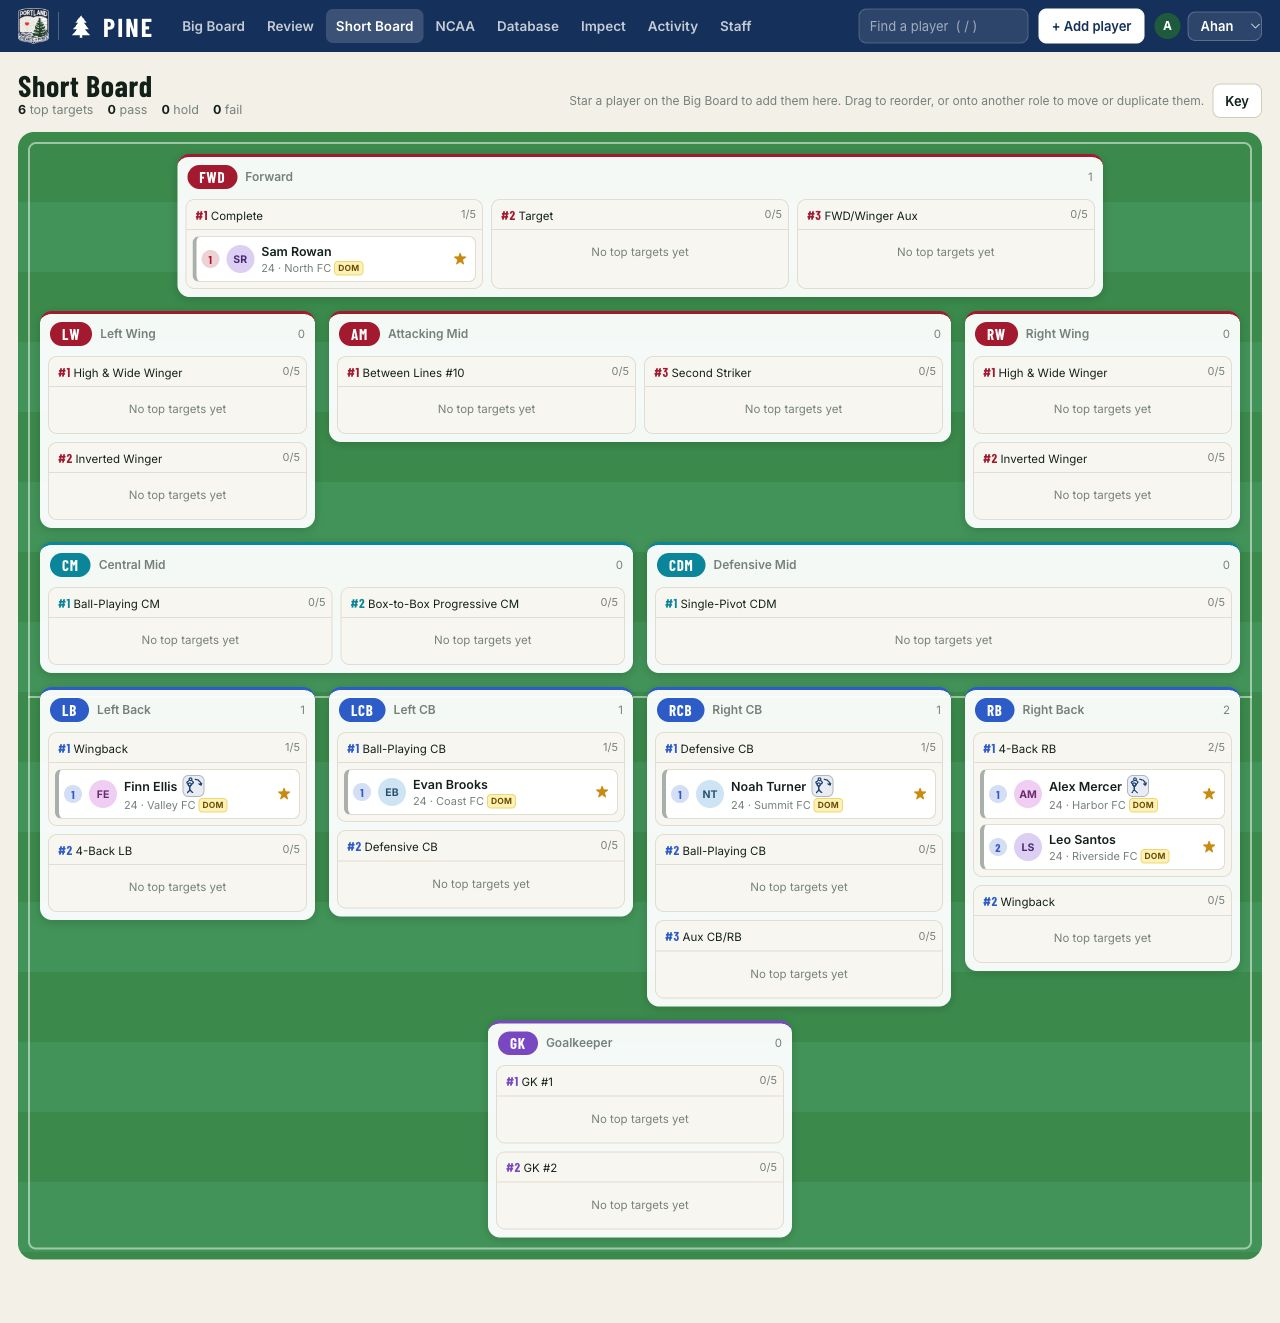
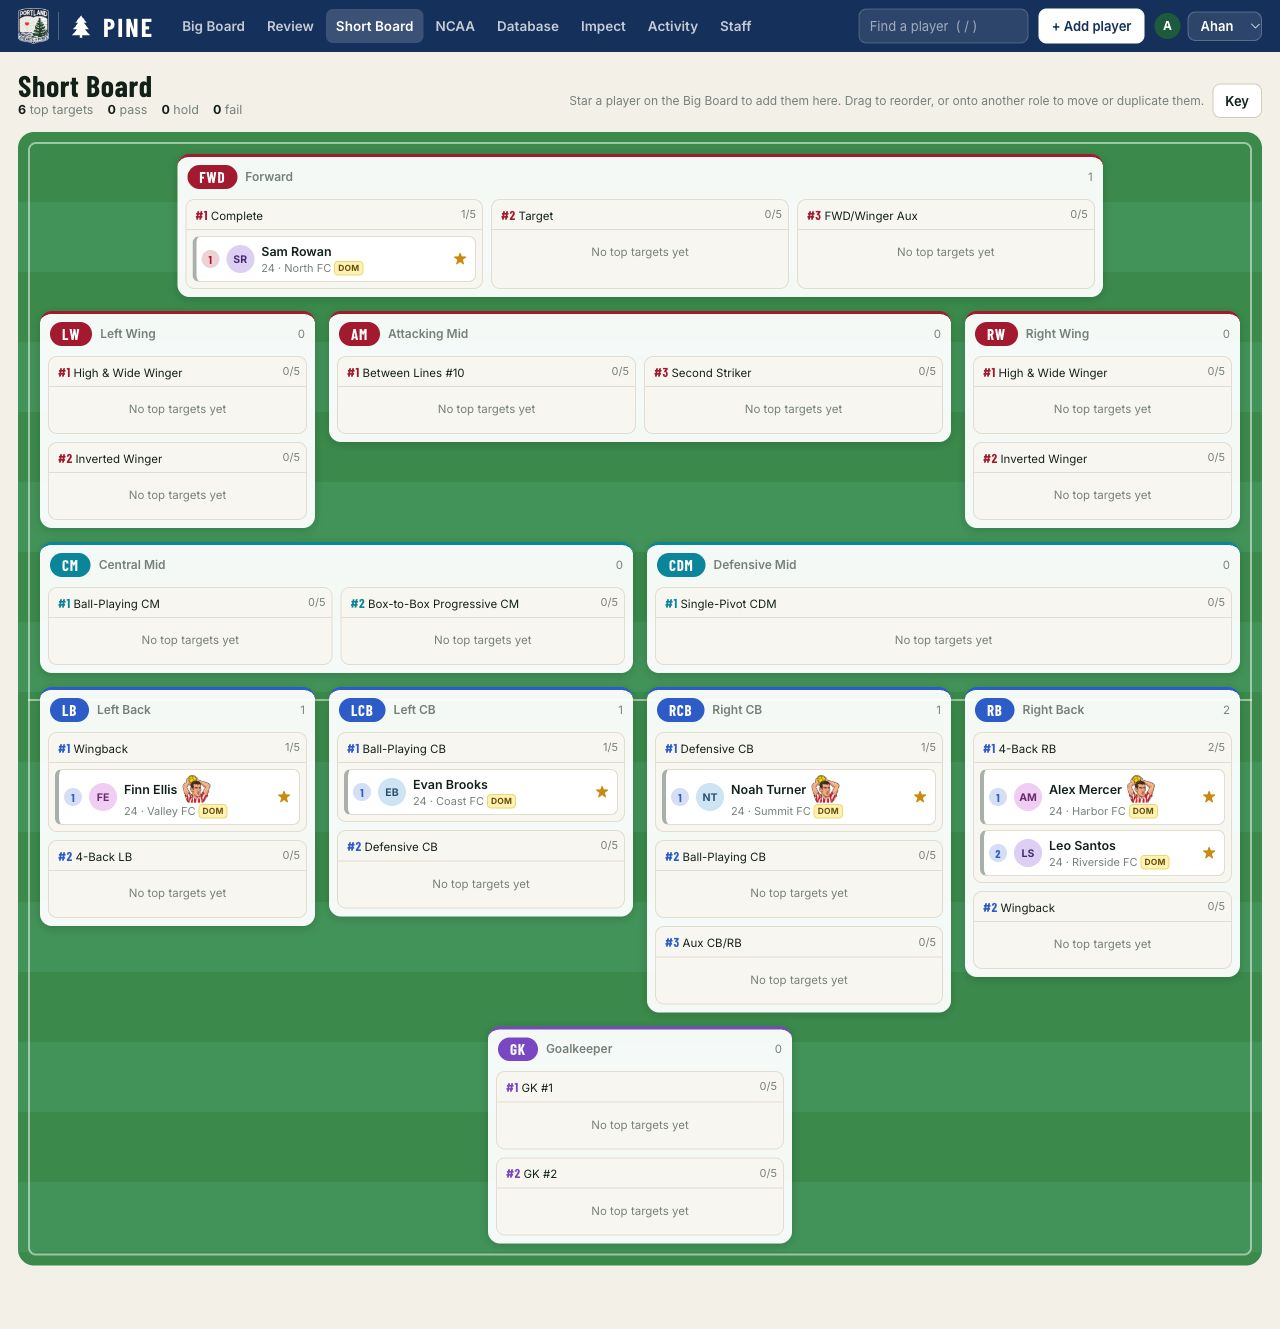
Use a cartoon Rory Delap for long-throw badges

diff --git a/public/app.js b/public/app.js
@@ -550,7 +550,7 @@ function newReportMark(p) {
   const who = mine ? "you" : S.config.staff.find((u) => u.id === r.by)?.name || "someone";
   return `<span class="newrpt ${mine ? "mine" : ""}" title="New report by ${esc(who)} · ${esc(relTime(r.at))}" aria-label="New report by ${esc(who)}">✎</span>`;
 }
-const longThrowBadge = (p) => p.has_long_throw ? `<span class="long-throw" role="img" aria-label="Long throw" title="Long throw"><svg viewBox="0 0 24 24" fill="none" stroke="currentColor" stroke-width="1.7" stroke-linecap="round" stroke-linejoin="round" aria-hidden="true"><circle cx="7" cy="10" r="2"/><circle cx="8" cy="3" r="1.7"/><path d="M7 12v5l-3 4m3-4 4 4M7 13 3 7l3-2m1 8 5-6-2-2m4-2c5 0 8 3 8 8m-3-2 3 2 1-3"/></svg></span>` : "";
+const longThrowBadge = (p) => p.has_long_throw ? `<span class="long-throw" role="img" aria-label="Long throw" title="Long throw · Rory Delap"><img src="/rory-delap-long-throw.png?v=1" alt="" width="56" height="56" aria-hidden="true"></span>` : "";
 const nameWithMark = (p, cls = "nm") => `<span class="name-line"><span class="${cls}">${esc(p.name)}</span>${longThrowBadge(p)}${signedBadge(p)}${newReportMark(p)}</span>`;
 // Picked for a USL League Two Top Prospects report: "L2 '26", or "L2 '25 '26" for both years.
 const L2_TIER = { First: "Best XI", Second: "Second XI", Third: "Third XI", Fourth: "Fourth XI", Fifth: "Fifth XI" };

diff --git a/public/styles.css b/public/styles.css
@@ -533,11 +533,9 @@ details.more > summary { cursor: pointer; font-size: 12px; color: var(--accent);
 /* The new-report mark after a player's name (last 7 days). */
 .name-line { display: flex; align-items: center; gap: 5px; min-width: 0; }
 .name-line > .nm, .name-line > .nname { min-width: 0; }
-.long-throw { display: inline-flex; align-items: center; justify-content: center; flex: none; width: 22px; height: 22px;
-  color: var(--accent); background: color-mix(in srgb, var(--accent) 10%, var(--surface)); border: 1px solid color-mix(in srgb, var(--accent) 25%, var(--line)); border-radius: 6px; }
-.long-throw svg { width: 18px; height: 18px; }
-.p-name-row > .long-throw { width: 30px; height: 30px; border-radius: 8px; }
-.p-name-row > .long-throw svg { width: 23px; height: 23px; }
+.long-throw { display: inline-flex; align-items: center; justify-content: center; flex: none; width: 28px; height: 28px; }
+.long-throw img { width: 100%; height: 100%; object-fit: contain; }
+.p-name-row > .long-throw { width: 40px; height: 40px; }
 .newrpt { flex: none; display: inline-grid; place-items: center; width: 16px; height: 16px; border-radius: 50%; font-size: 10px; line-height: 1; font-weight: 700;
   color: #fff; background: var(--accent); cursor: help; }
 .newrpt.mine { background: var(--pine); }

diff --git a/docs/long-throw-artwork.md b/docs/long-throw-artwork.md
@@ -1,0 +1,9 @@
+# Rory Delap long-throw badge
+
+The original cartoon was generated with the built-in ImageGen tool for the long-throw capability badge. It is used on both boards, the player profile and the board key.
+
+Saved asset: [`public/rory-delap-long-throw.png`](../public/rory-delap-long-throw.png), a 192 px transparent PNG prepared for 28 px board badges and 40 px profile badges. The picture is decorative; the surrounding accessible label identifies the capability as “Long throw”.
+
+## Final generation prompt
+
+Use case: illustration-story. Asset type: tiny app badge for long-throw capability, legible at 28–32 CSS pixels. Create one original cartoon caricature of the footballer Rory Delap during his Stoke City playing days, recognizable face with short dark brown hair, pronounced brow and long nose, clean-shaven, wearing a red-and-white vertically striped football shirt. Show his head, upper chest and both raised arms holding a yellow football just above and slightly behind his head in his trademark long-throw preparation pose. Friendly, tasteful editorial sports cartoon, oversized head, bold dark navy outlines, simple flat colours with minimal shading, clean silhouette. Front three-quarter view. Tight centered square composition: figure fills almost the entire canvas with only a very small transparent margin. Fully transparent background, no stadium, no border, no badge circle, no text, no sponsor, no crest, no watermark, no extra objects. Optimise for tiny icon readability, not detailed illustration.

diff --git a/docs/long-throws.md b/docs/long-throws.md
@@ -1,6 +1,6 @@
 # Long-throw flag
 
-PINE shows one icon for a player known to be capable of a long throw. There are no throw counts, distances, rankings or xG on player pages. The icon sits beside the name, outside the board's collapsing tag row. It has a “Long throw” tooltip and accessible name.
+PINE shows a small cartoon Rory Delap for a player known to be capable of a long throw. There are no throw counts, distances, rankings or xG on player pages. The picture sits beside the name, outside the board's collapsing tag row. Its accessible name is “Long throw”; its tooltip also names Rory Delap. [Artwork and generation prompt](long-throw-artwork.md).
 
 Edit details → **Long throw** offers **Auto / Yes / No**, beside roster status. Yes and No always override detection, including for players without Impect coverage. Auto follows the local lookup; Auto: No means no qualifying delivery has been observed. Staff changes are recorded in History and survive syncs, Transfermarkt refreshes, database restarts and supported duplicate merges.
 
